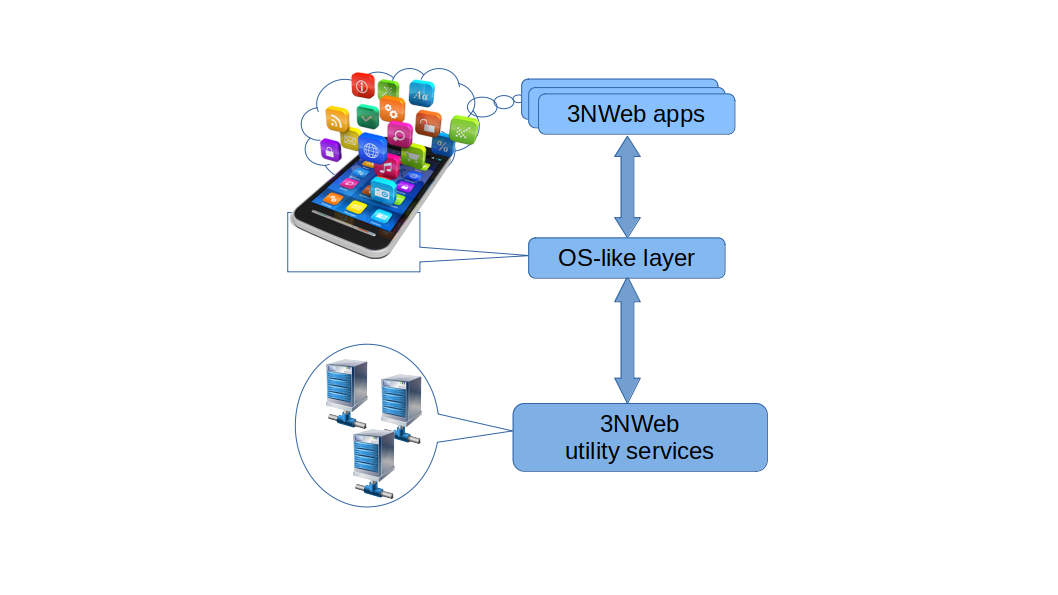
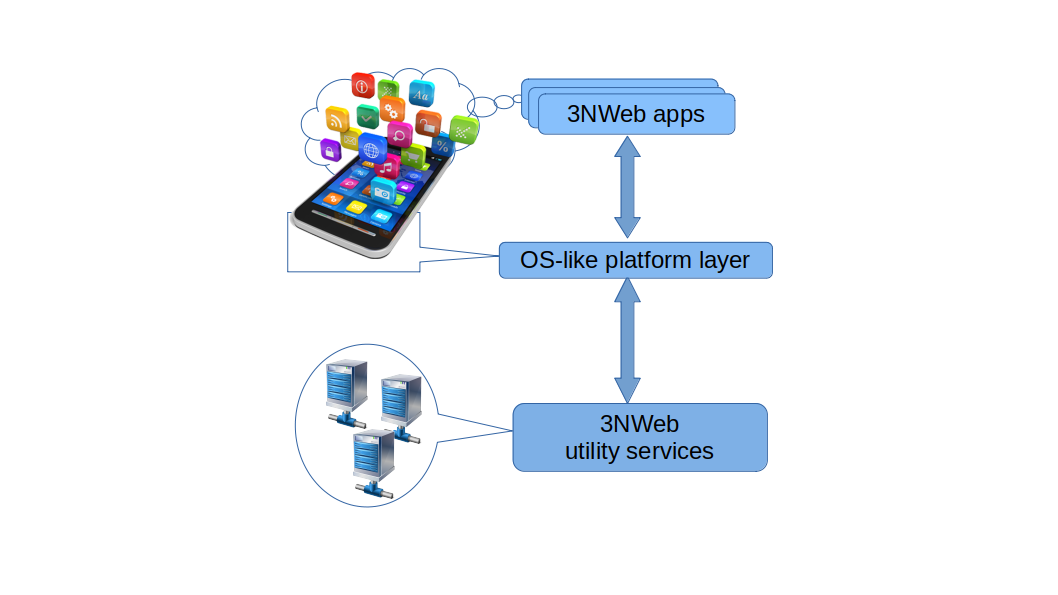
.

Changed region(s): [[0.4055, 0.3933, 0.7486, 0.484]]

diff --git a/README.md b/README.md
@@ -148,13 +148,13 @@ Let's note that 3NWeb name has been choosen to highlight usage of both 3N princi
 
 ## Implementation and standards
 
-App developers make different applications for users. Applications need utilites like file system, while app developers should be shielded from touching encryption and other common details. This is done by an OS-like layer that provides common utilities to applications on one side, and talks to 3NWeb servers on the other.
+App developers make different applications for users. Applications need utilites like file system, while app developers should be shielded from touching encryption and other common details. This is done by an OS-like platform layer that provides common utilities to applications on one side, and talks to 3NWeb servers on the other.
 
-![Implementation parts: 3NWeb apps, OS-like layer, 3NWeb utility services](implementation/implementation_parts.png)
+![Implementation parts: 3NWeb apps, platform layer, 3NWeb utility services](implementation/implementation_parts.png)
 
 ### Client side
 
-The OS-like layer starts different 3NWeb apps. Each app has a manifest that identifies utilities, or capabilities that app requests. This is a capability model, giving to running app only what it needs. App manifest is [described here](./app-manifest/README.md).
+The platform layer starts different 3NWeb apps. Each app has a manifest that identifies utilities, or capabilities that app requests. This is a capability model, giving to running app only what it needs. App manifest is [described here](./app-manifest/README.md).
 
 ![Implementation parts: capabilities and protocols](implementation/caps_and_protocols.png)
 
@@ -164,20 +164,24 @@ Some 3NWeb app capabilities are backed by communication with servers via 3NWeb p
  - [mailerid](./capabilities/mailerid/README.md) - uses [MailerId protocol](./protocols/mailerid/README.md)
 
 The rest help to combine individual apps into a coherent system on user devices:
- - appRPC
- - otherAppsRPC
- - exposeService
- - connectivity
- - closeSelf
- - log
- - shell.fileDialog
- - shell.mountFS
- - shell.userNotifications
- - logout
- - apps.opener
- - apps.downloader
- - apps.installer
- - platform
+ - for mashup of different apps, their components/services:
+   - appRPC - connects to service components of same app
+   - otherAppsRPC - connects to services exposed by other apps
+   - exposeService - exposes service(s) for others to use. For example, when porting regular web app to 3NWeb platform, functionality that lived in cloud's lambda function is run and exposed as a service here. Regular web API endpoints are re-formulated with RPC calls.
+ - for apps' own needs:
+   - connectivity - tells if client is offline
+   - closeSelf - closes component process
+   - log - lets app to log error/warnings into platform
+ - for desktop/mobile OS integration:
+   - shell.fileDialog
+   - shell.mountFS
+   - shell.userNotifications
+ - for platform's UI components:
+   - logout - logs out user, closes core, wipes keys from memory
+   - apps.opener - to open 3NWeb apps, when user triggers it
+   - apps.downloader - to looks for and downloads new 3NWeb apps, and updates to installed ones
+   - apps.installer - to install new 3NWeb apps into user's platform
+   - platform - to check for platform updates
 
 
 ### 3NWeb user ids
